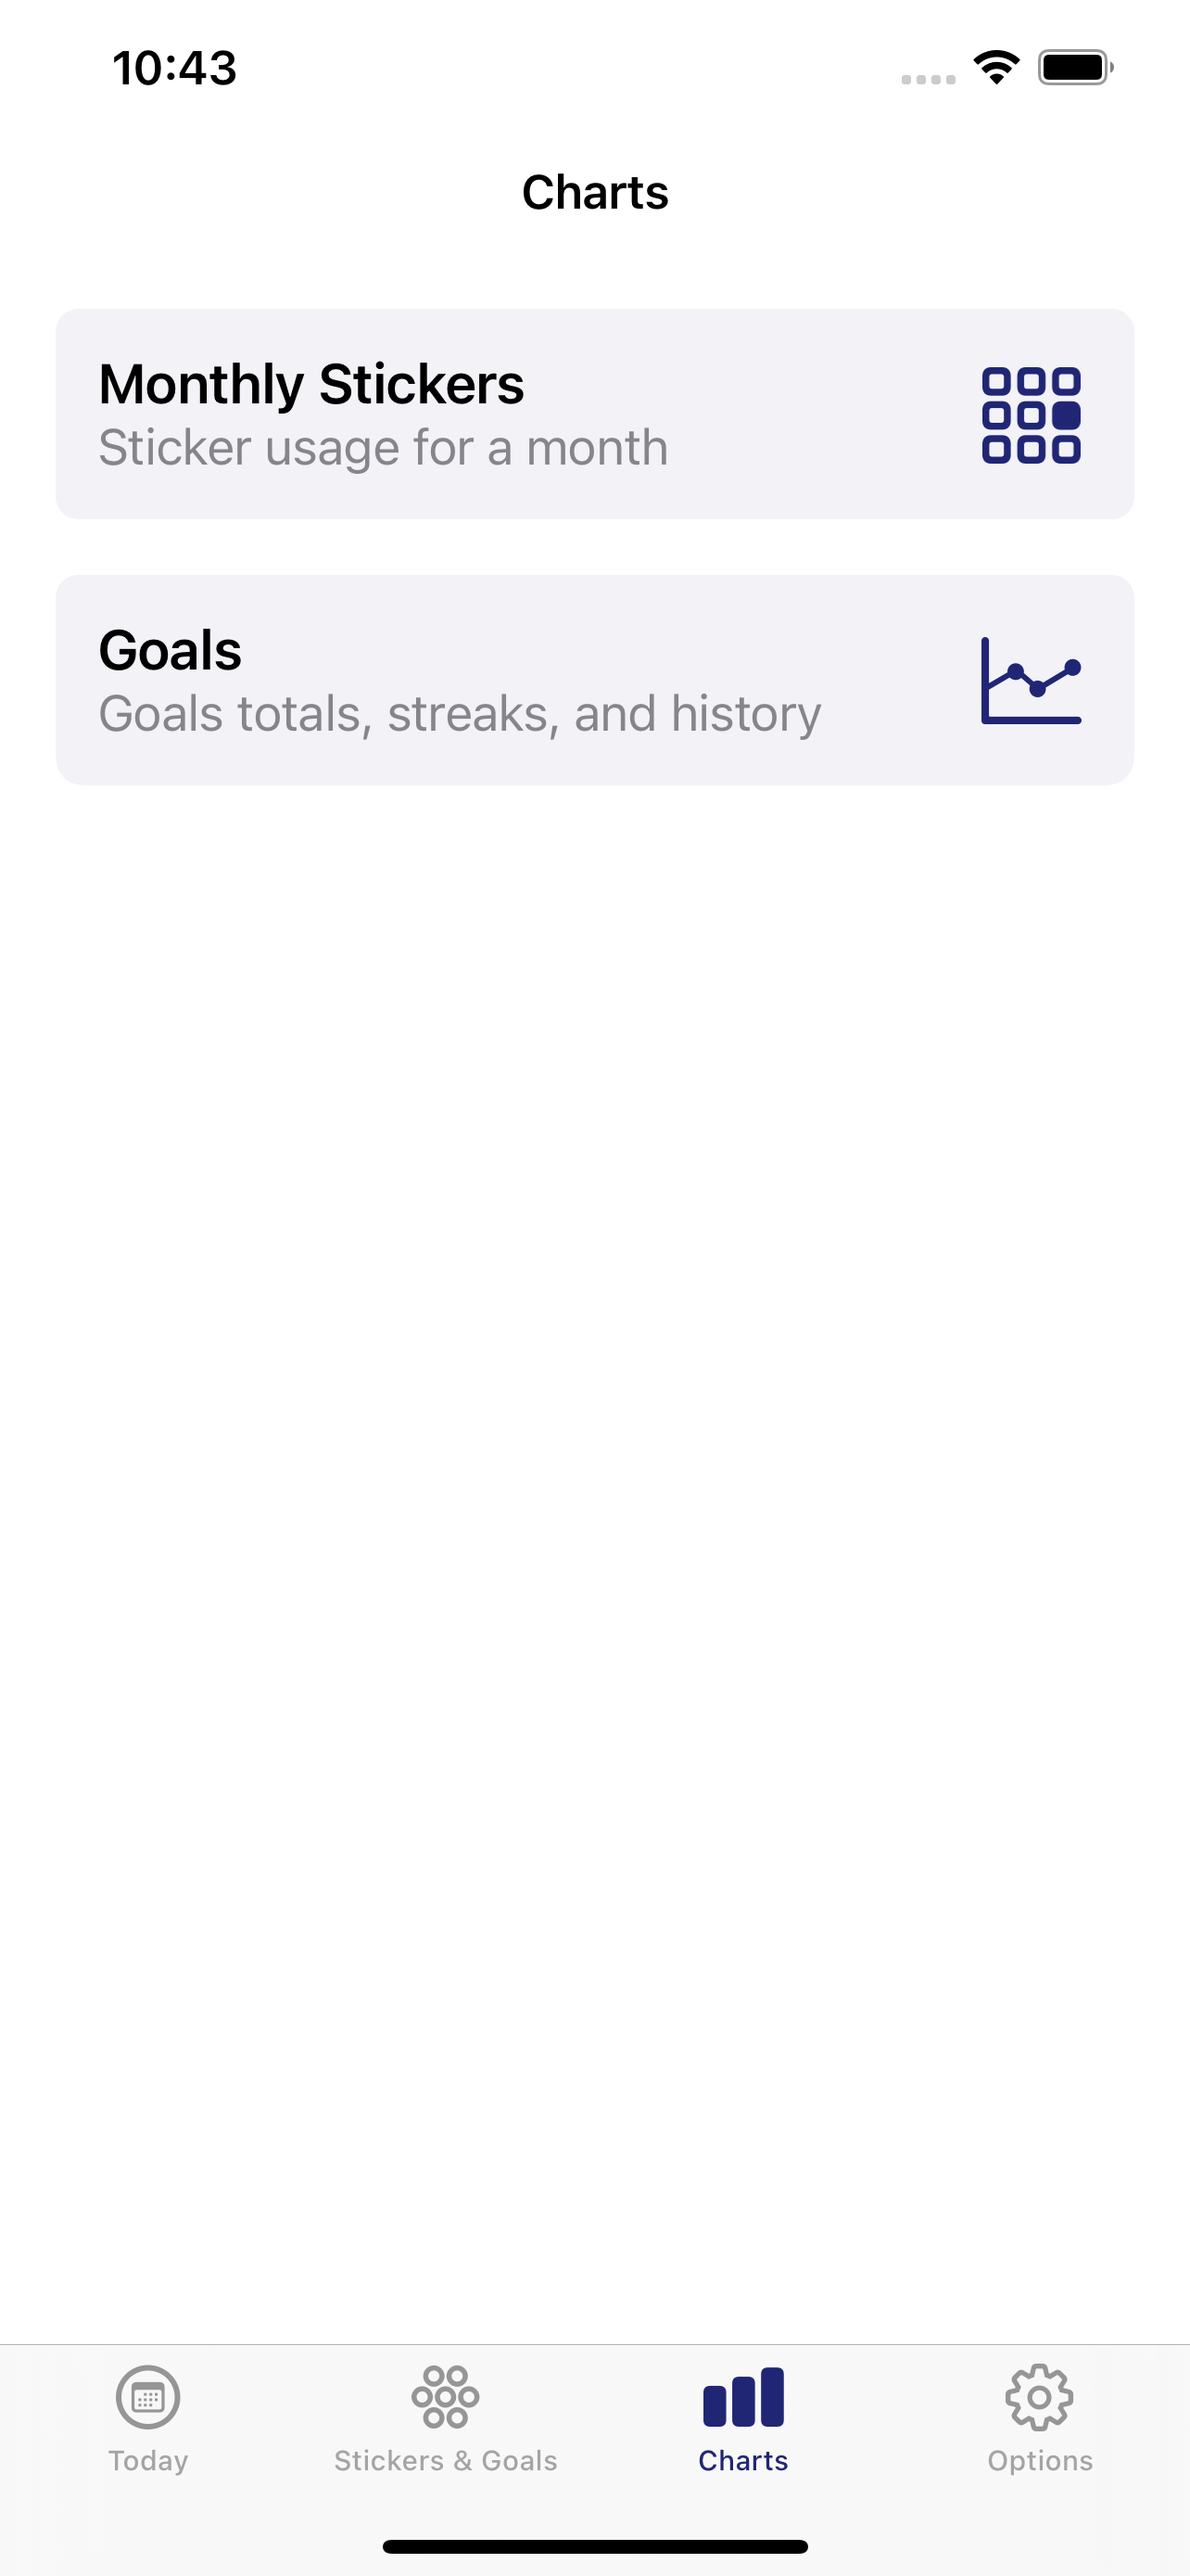
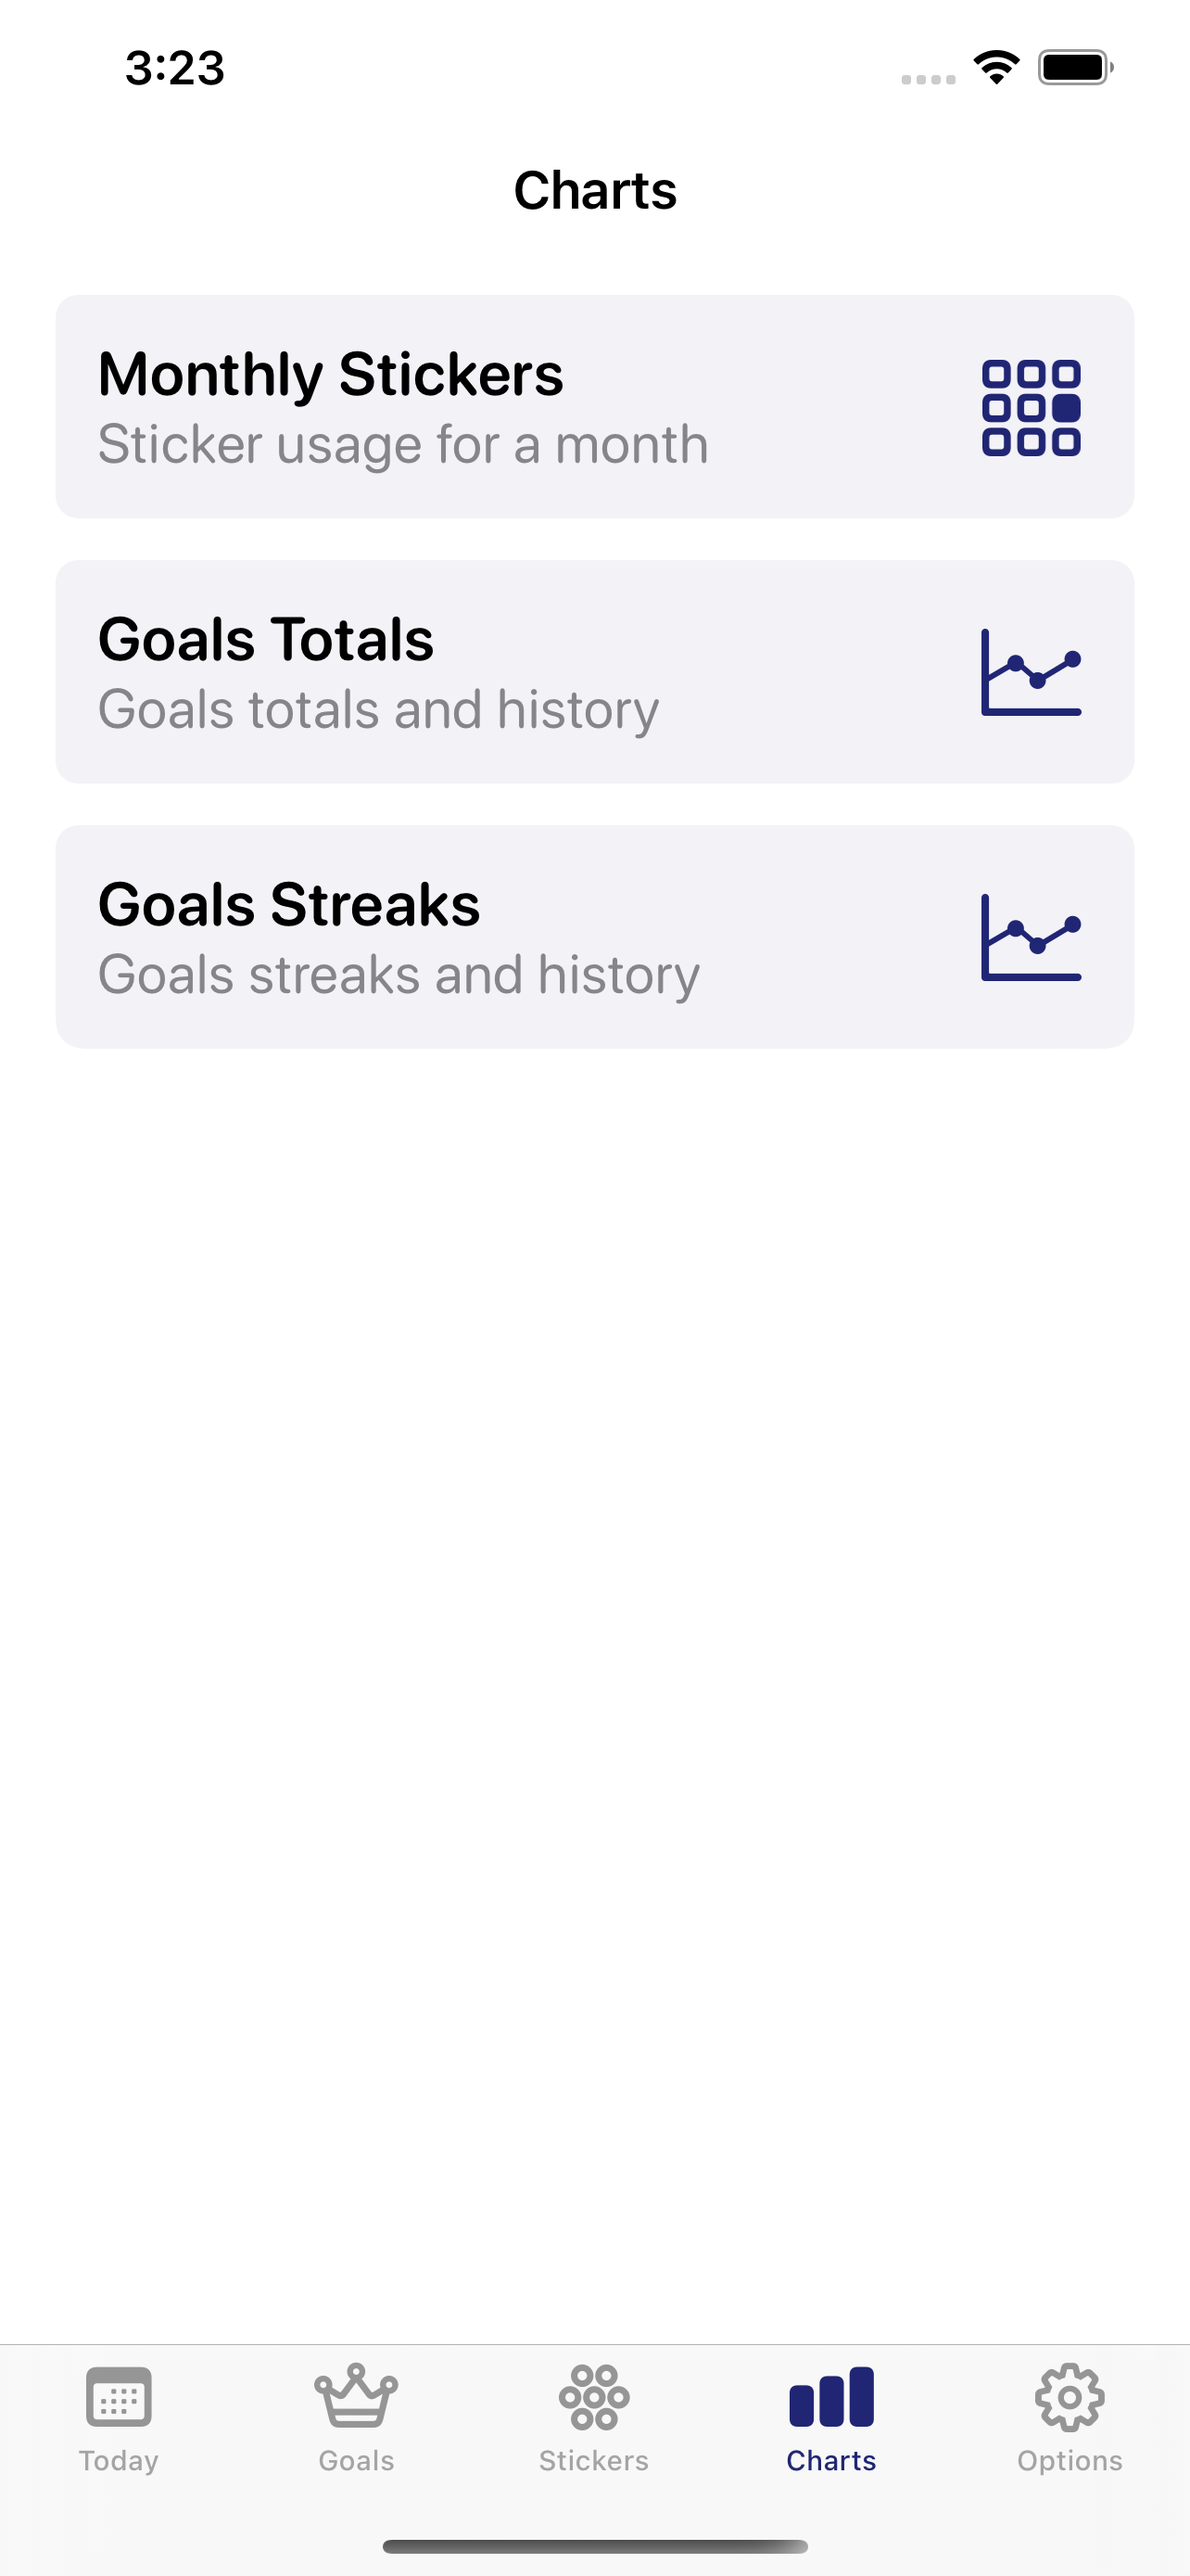
Updated screenshots

diff --git a/Emojical/Emojical/Application Pages/Stats/Cells/ChartCell.swift b/Emojical/Emojical/Application Pages/Stats/Cells/ChartCell.swift
@@ -63,7 +63,7 @@ class ChartCell: ThemeObservingCollectionCell {
 fileprivate struct Specs {
     
     /// Vertical gap between cells
-    static let cellGap: CGFloat = 20.0
+    static let cellGap: CGFloat = 15.0
     
     /// Content insets inside cell background plate
     static let contentInsets = UIEdgeInsets(top: 15, left: 15, bottom: 15, right: 15)

diff --git a/README.md b/README.md
@@ -2,8 +2,9 @@
 
 Emojical is an iOS application for fun and simple diary and goal tracking.
 
-![Welcome Screen"](Emojical/Screenshots/iphone-13-pro-max/welcome-light-frame-200.png)
-![Today Screen"](Emojical/Screenshots/iphone-13-pro-max/today-light-frame-200.png)
+![Welcome Screen"](Emojical/Screenshots/iphone-13-pro-max/welcome-light-frame-300.png)
+![Today Screen"](Emojical/Screenshots/iphone-13-pro-max/today-light-frame-300.png)
+![Stickers"](Emojical/Screenshots/iphone-13-pro-max/stickers-dark-frame-300.png)
 
 ## Installation
 
